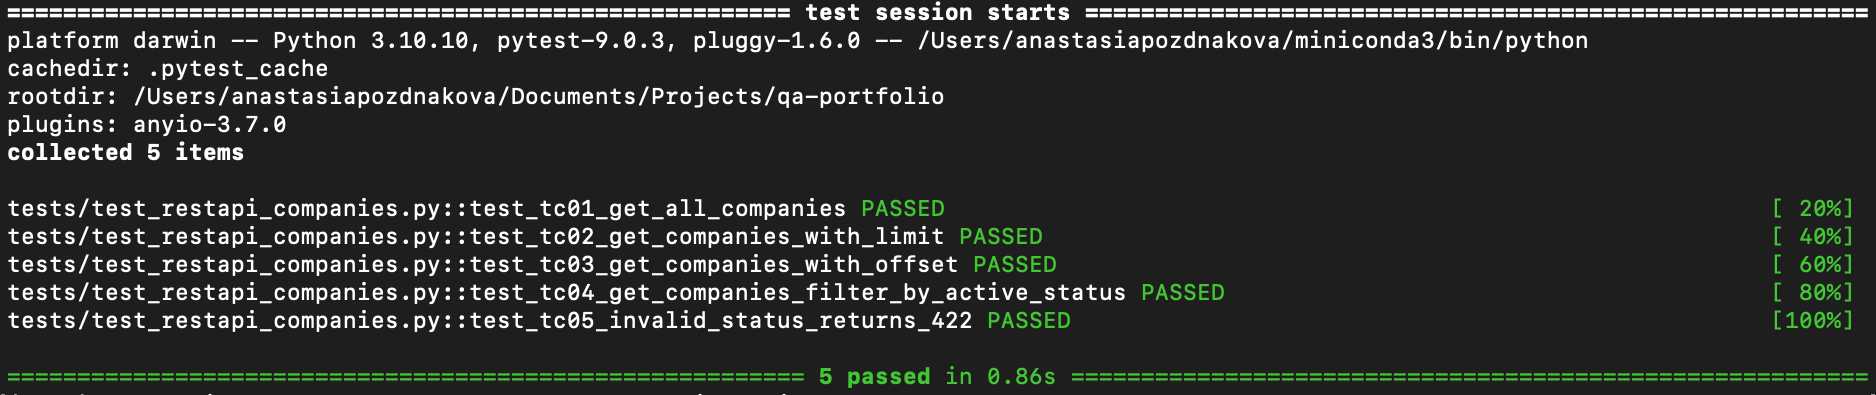
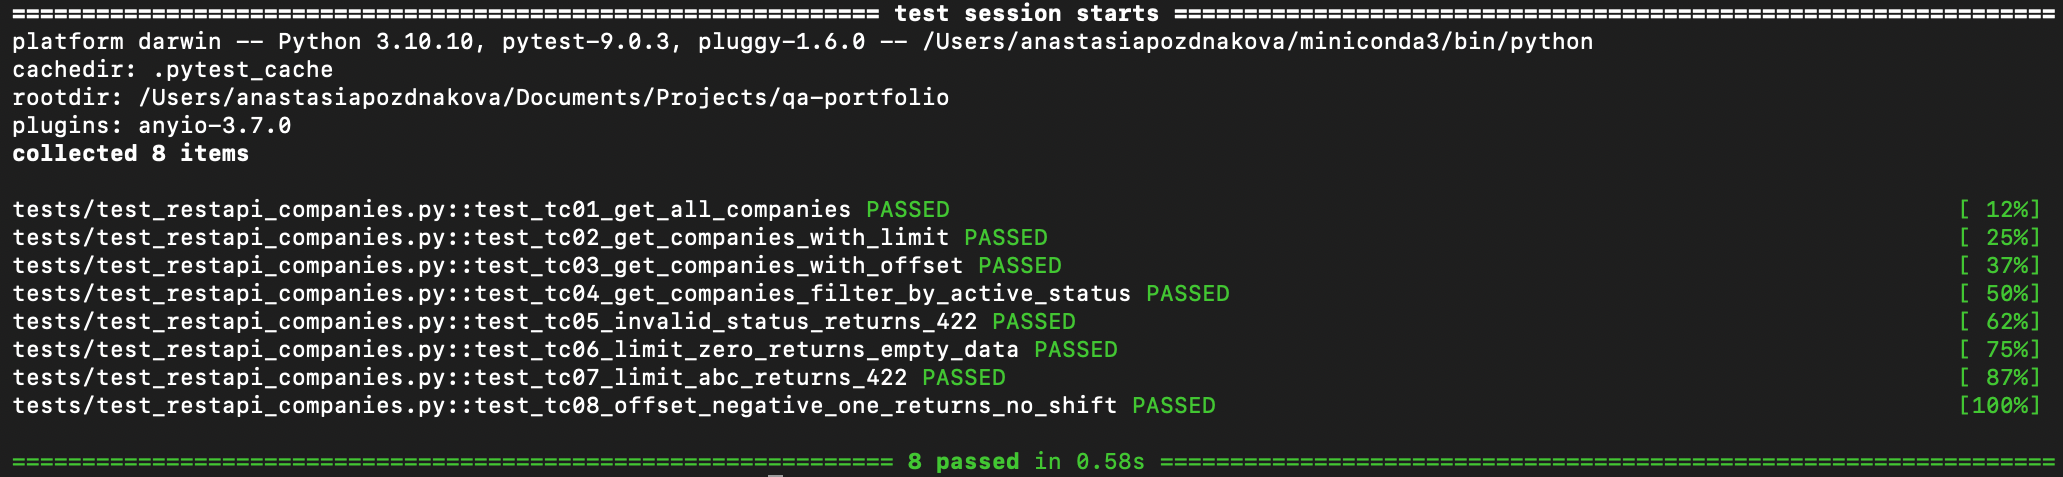
feat: add TC-06, TC-07, TC-08; refactor TC-03; update Postman collection and test cases

Changed region(s): [[0.0, 0.0, 1.0, 0.881], [0.0, 0.9114, 1.0, 1.0], [0.9275, 0.4253, 0.9893, 0.881]]

diff --git a/tests/test_restapi_companies.py b/tests/test_restapi_companies.py
@@ -232,7 +232,7 @@ def test_tc05_invalid_status_returns_422():
     assert "detail" in error_data, "В ответе отсутствует поле 'detail'"
     detail = error_data["detail"]
     assert isinstance(detail, list), "detail должен быть массивом"
-    assert detail, "detail пуст"
+    assert len(detail) > 0, "detail пуст"
 
     # Извлекаем первую ошибку
     first_error = detail[0]
@@ -245,3 +245,84 @@ def test_tc05_invalid_status_returns_422():
     assert any(
         status in first_error["msg"] for status in constants.VALID_STATUSES
     ), f"Сообщение об ошибке не содержит ни одного из допустимых статусов: {constants.VALID_STATUSES}"
+
+
+def test_tc06_limit_zero_returns_empty_data():
+    """TC-06: limit=0 возвращает статус 200 и пустой массив data"""
+
+    # Подготовка данных
+    limit_value = 0
+
+    # Отправка GET-запроса
+    try:
+        response = requests.get(
+            COMPANIES_ENDPOINT, params={"limit": limit_value}, timeout=TIMEOUT
+        )
+    except requests.exceptions.Timeout:
+        assert False, f"Запрос к {COMPANIES_ENDPOINT} превысил таймаут {TIMEOUT} сек."
+
+    # Проверка статуса, заголовка парсинг JSON
+    assert response.status_code == 200, (
+        f"Запрос к {COMPANIES_ENDPOINT} с параметром {{'limit': {limit_value}}} "
+        f"вернул статус {response.status_code}. Ожидался 200"
+    )
+    validate_content_type(response)
+    data = get_validated_json(response)
+
+    # Проверка структуры data
+    validate_response_structure(data, ["data", "meta"])
+
+    # Проверка, что limit=0
+    limit = data["meta"]["limit"]
+    assert limit == limit_value, f"'limit' равен {limit}, а должно быть {limit_value}"
+
+    # Проверка, что data пустой
+    companies = data["data"]
+    assert isinstance(companies, list), "'data' должен быть массивом"
+    assert not companies, f"Массив 'data' не пустой"
+
+
+def test_tc07_limit_abc_returns_422():
+    """TC-07: limit=abc возвращает статус 422 и detail об ошибке"""
+
+    # Подготовка данных
+    limit_value = "abc"
+
+    # Отправка GET-запроса
+    try:
+        response = requests.get(
+            COMPANIES_ENDPOINT, params={"limit": limit_value}, timeout=TIMEOUT
+        )
+    except requests.exceptions.Timeout:
+        assert False, f"Запрос к {COMPANIES_ENDPOINT} превысил таймаут {TIMEOUT} сек."
+
+    # Проверка статуса и заголовка
+    assert response.status_code == 422, (
+        f"Запрос к {COMPANIES_ENDPOINT} с параметром {{'limit': {limit_value}}} "
+        f"вернул статус {response.status_code}. Ожидался 422"
+    )
+    validate_content_type(response)
+
+    # Парсинг JSON
+    error_data = get_validated_json(response)
+
+    # Проверка, что в ответе есть detail, массив и не пустой
+    assert "detail" in error_data, "В ответе отсутствует поле 'detail'"
+    detail = error_data["detail"]
+    assert isinstance(detail, list), "detail должен быть массивом"
+    assert len(detail) > 0, "detail пуст"
+
+    # Извлекаем первую ошибку
+    first_error = detail[0]
+
+    # Проверка обязательных полей
+    for field in ["type", "loc", "msg"]:
+        assert field in first_error, f"В ошибке отсутствует {field}"
+
+    # Проверка типа поля ошибки и содержание
+    assert isinstance(first_error["msg"], str), "Поле 'msg' не строка"
+    assert "integer" in first_error["msg"], "Сообщение об ошибке не содержит 'integer'"
+
+
+def test_tc08_offset_negative_one_returns_no_shift():
+    """TC-08: offset=-1 возвращает статус 200, компании без сдвига"""

diff --git a/test-cases/GET_companies.md b/test-cases/GET_companies.md
@@ -1,0 +1,80 @@
+# Автотесты: GET /api/companies
+
+## Базовые данные
+- **Endpoint:** `GET {{BASE_URL}}/companies`
+- **Headers:** `Accept: application/json`
+
+---
+
+## TC-01: Базовый запрос без параметров
+- **Параметры:** (нет)
+- **Ожидаемый статус:** 200
+- **Ожидаемая структура ответа:**
+  - `data` — тип: list (массив)
+  - `meta` — тип: object
+- **Ожидаемые поля в data[0]** (если массив не пуст):
+  - `company_id` (integer)
+  - `company_name` (string)
+  - `company_address` (string)
+  - `company_status` (string, одно из: ACTIVE, CLOSED, BANKRUPT)
+
+---
+
+## TC-02: Параметр limit
+- **Параметры:** `limit=5`
+- **Ожидаемый статус:** 200
+- **Ожидаемая структура:** `meta.limit` == 5
+- **Дополнительно:** длина `data` <= 5
+
+---
+
+## TC-03: Параметр offset
+- **Параметры:** `offset=2`
+- **Ожидаемый статус:** 200
+- **Ожидаемая структура:** `meta.offset` == 2
+
+---
+
+## TC-04: Фильтрация по статусу
+- **Параметры:** `status=ACTIVE`
+- **Ожидаемый статус:** 200
+- **Ожидаемая структура:** 
+  - У всех элементов в `data` поле `company_status` == "ACTIVE"
+
+---
+
+## TC-05: Негатив — неверный статус
+- **Параметры:** `status=INVALID`
+- **Ожидаемый статус:** 422
+- **Ожидаемая структура:** 
+  - `detail` — массив с описанием ошибки
+
+---
+
+## TC-06: Негатив — limit меньше 1
+- **Параметры:** `limit=0`
+- **Ожидаемый статус:** 422
+
+---
+
+## TC-07: Негатив — limit не число
+- **Параметры:** `limit=abc`
+- **Ожидаемый статус:** 422
+
+---
+
+## TC-08: Негатив — offset отрицательный
+- **Параметры:** `offset=-1`
+- **Ожидаемый статус:** 422
+
+---
+
+## Проверки безопасности (опционально)
+
+### TC-09: Без заголовка Accept
+- **Шаги:** GET `/companies` без заголовка Accept
+- **Ожидаемый результат:** Статус 406 (Not Acceptable) или 200 с JSON по умолчанию
+
+### TC-10: Неверный метод (POST вместо GET)
+- **Шаги:** POST `/companies`
+- **Ожидаемый результат:** Статус 405 (Method Not Allowed)

diff --git a/README.md b/README.md
@@ -145,7 +145,4 @@ https://github.com/Anastasia-Pozdnyakova/qa-portfolio
 
 ---
 
-📫 Контакты
-GitHub: [Anastasia-Pozdnyakova](https://github.com/Anastasia-Pozdnyakova)
-Telegram: [@poznast](https://t.me/@poznast)
-Email: poznast59@ya.ru
+📫 **Контакты:** GitHub [Anastasia-Pozdnyakova](https://github.com/Anastasia-Pozdnyakova) · Telegram [@poznast](https://t.me/@poznast) · Email poznast59@ya.ru
